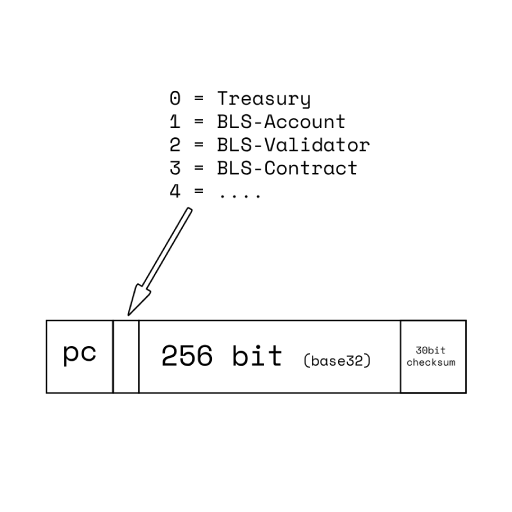
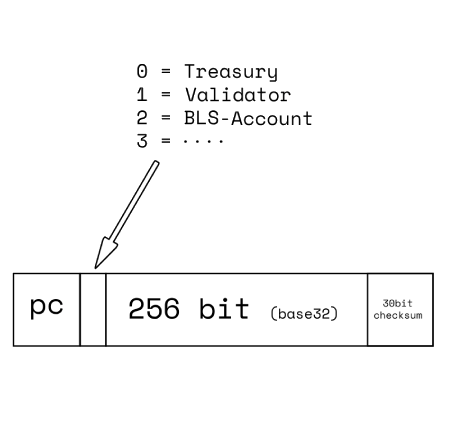
updating pip-8 (#29)

Changed region(s): [[0.0, 0.154, 0.9602, 0.8318]]

diff --git a/PIPs/pip-8.md b/PIPs/pip-8.md
@@ -4,34 +4,99 @@ title: Add Address Usage Next to Encryption in Address Type
 status: Draft
 type: Standards Track
 category: Core
-author: Kayhan Alizadeh <kehiiiiya@gmail.com>
+author: |
+    Kayhan Alizadeh <kehiiiiya@gmail.com>,
+    Mostafa Sedaghat Joo (@b00f)
 created: 2023-09-17
 ---
 
 ## Abstract
 
-This proposal suggests adding address usage information to address types in Pactus, such as `validator` and `account`, to make their roles more understandable.
-With this approach addresses can communicate their usage.
+This proposal suggests defining the address type based on their usage, not the cryptographic algorithm.
+With this approach, addresses can communicate their intended usage.
+
+![PIP-8 - address format](../assets/pip-8/pactus_address.png)
 
 ## Motivation
 
-Currently, Pactus address types only indicate encryption, regardless of their usage. This makes it difficult for both humans and machines to identify the role of each address, whether it belongs to an `account`, `validator`, or `contract`.
+Addresses in Pactus are defined as `<Type> + <20 Data>`.
+Currently, the type only indicates the cryptographic algorithm of the corresponding public key.
+It is defined as `1` for the BLS signature schema.
+However, there are some problems with this approach:
 
-![Current Address Type](../assets/pip-8/pactus_address.png)
-
-By adding appropriate usage to the address type, we can quickly and easily identify the purpose of each address. For example:
-
-![PIP-8](../assets/pip-8/pip-8-address.png)
+1. It doesn't convey its intended usage.
+For example, a user might use an account address as a validator address in a [Bond transaction](https://pactus.org/learn/transaction/bond/) (An issue regarding this problem is reported [here](https://github.com/pactus-project/pactus/issues/510)).
+2. For some usages, such as smart contracts, there isn't a dedicated public key, making the `type` inconsistent with its original definition.
+3. The address doesn't indicate its usage. This makes it challenging for both humans and machines to identify the purpose of each address, whether it belongs to an `account`, `validator`, or `contract`. This is particularly troublesome in applications like block explorers.
 
 ## Specification
 
-To achieve this, we propose defining `4` address types (for now): `0` for Treasury, `1` for `BLS-Accounts`, `2` for `BLS-Validator`, and `3` for `BLS-Contracts`. All addresses must have the correct type to be considered valid in Pactus. Additionally, we should consider creating new types for each new usage or encryption.
+We propose to define address types as follows:
 
-| type | name | example |
-|----------|----------|----------|
-| 0 | Treasury | 000000000000000000000000000000000000000000 |
-| 1 | BLS-Accounts |  pc1puc5zza3hnp2tcf6r5n8zz0mwcjhqlxtejnjkzv |
-| 2 | BLS-Validator | pc2p8wqgmagsrzn0nr26weg6wekqtu2mc6uw72k04a |
-| 3 | BLS-Contracts | pc3pdw5fda6r757q780xvtsxhfls24vekrfqmddqrs |
+```text
+0: Treasury address
+1: Validator address
+2: BLS-Account address
+```
 
-Furthermore, any possible future address types must follow the same rule and have their own type based on `usage` and encryption.
+For the treasury address, the data is a string of zeros in 20-byte length: `000000000000000000000000000000000000000000`.
+In both `Validator address` and `BLS-Account address`, the data is the hash of the corresponding public key.
+
+![PIP-8 - address types](../assets/pip-8/pip-8-address.png)
+
+### Examples:
+
+ Examples of validator address:
+
+- `pc1p97d72u2nqfwq3rv3kfuy0xaeuvkk6ye5cl2vyp`
+- `pc1ppjedvfsd02x74j83ceu0kju37652u253z9cnh6`
+- `pc1pnetupg0ewf2r0l8hx9052d3g4zf8dpzlf9qgps`
+
+Examples of BLS-account address:
+
+- `pc1zwqxz2wmz5upuvxzj3kpgfq3k2are4s3ctqxtxy`
+- `pc1zhjk4pujm770elt30ud2d868czg9kth3e3nefnl`
+- `pc1zzya8am0h0y0nu6msxz5j5pt9tsqsdvgzs5r89v`
+
+Note that validator addresses start with `pc1p`, and account addresses start with `pac1z`.
+
+### Address derivation path
+
+Currently, the wallet derivation path in Pactus is similar to [EIP-2334](https://eips.ethereum.org/EIPS/eip-2334).
+To align with this proposal, we suggest changing the derivation path to:
+
+```
+m / purpose' / coin_type' / address_type' / address_index
+```
+
+The apostrophe in the path indicates that hardened derivation is used.
+
+Each level is defined as follows:
+
+### Purpose
+
+The purpose is set to `12381`, representing the BLS12-381 curve. This indicates the use of the BLS subtree for the derivation path.
+
+Hardened derivation is used at this level.
+
+### Coin type
+
+The coin type is set to `21888`, which matches the PAC coin type registered at
+[SLIP-0044](https://github.com/satoshilabs/slips/blob/master/slip-0044.md).
+
+ Hardened derivation is used at this level.
+
+### Address type
+
+The address type is same as the type of address, setting 1 for validators and 2 for accounts.
+The value 0 is reserved and is not used.
+
+ Hardened derivation is used at this level.
+
+### Address Index
+
+Addresses start from index 0 and increase sequentially.
+This number is similar to the child index in
+[BIP32](https://github.com/bitcoin/bips/blob/master/bip-0032.mediawiki) derivation.
+
+ Public derivation is used at this level.
